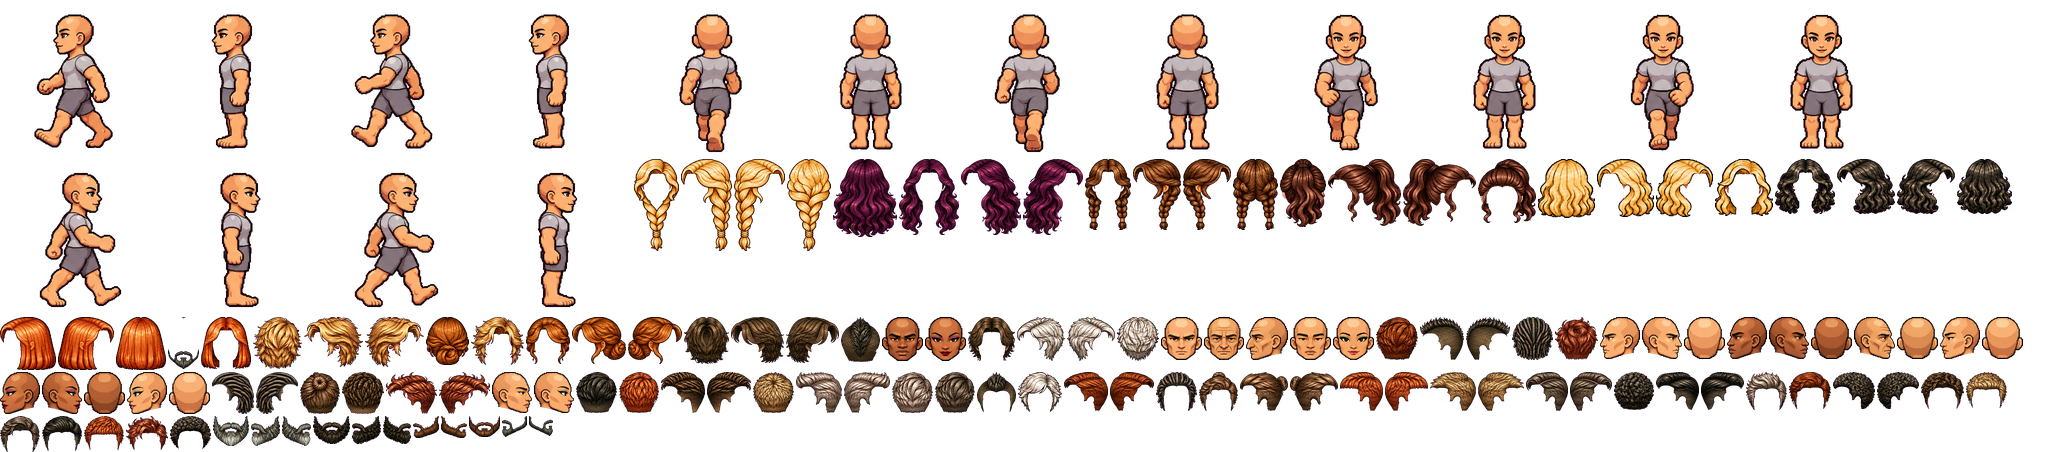
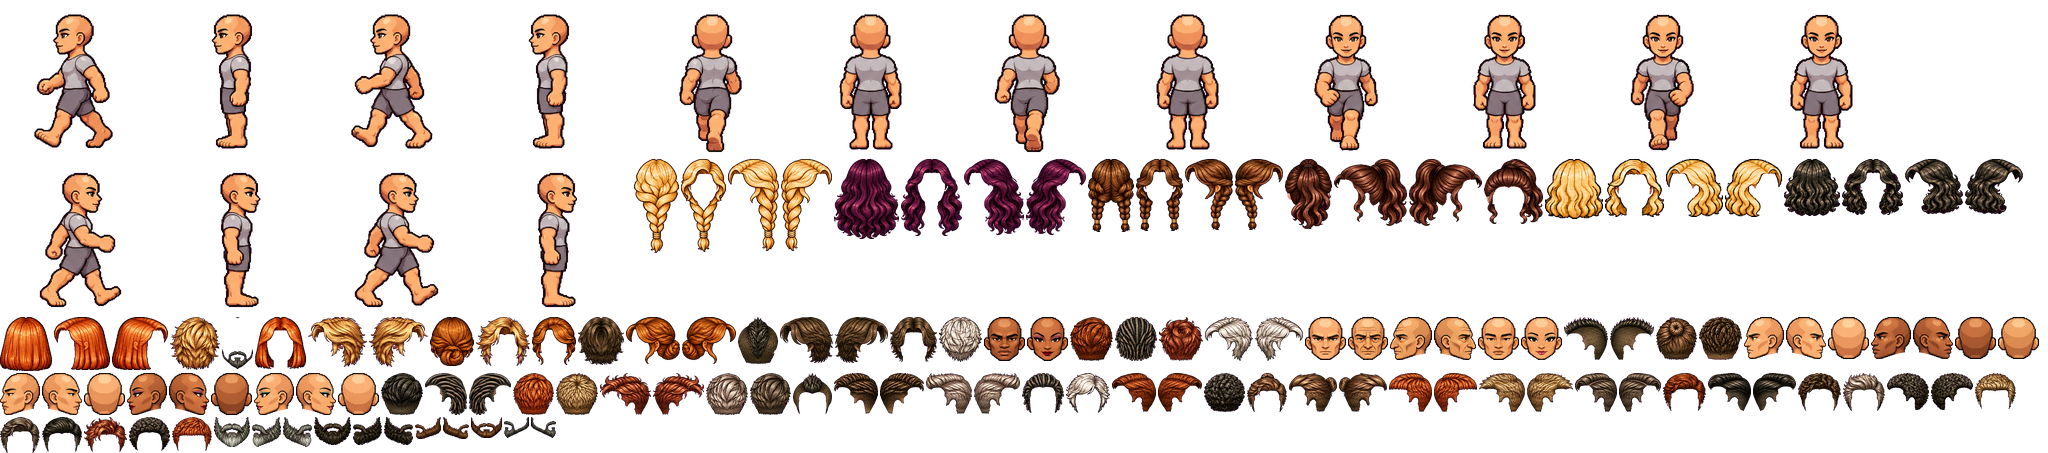
Creator: hair and beards fixed to the face pieces in all 4 directions, right view mirrored, walking head bob
Claude-Session: https://claude.ai/code/session_01M13Pm6b1zhezL4eS9qWP4U

diff --git a/tools/art/creator_preview.html b/tools/art/creator_preview.html
@@ -95,10 +95,10 @@ function bounds() {   // crop the canvas to the figure (with room for big hair),
 }
 function draw() {
   box = box || bounds(); const [bx, by, bw, bh] = box; cv.width = bw; cv.height = bh;
-  const g = cv.getContext('2d'), d = S.dir, f = d * 4 + (step % 4), [ax, ay] = CC.anchors[f];
+  const g = cv.getContext('2d'), d = S.dir, f = d * 4 + (step % 4), [ax, ay0] = CC.anchors[f], ay = ay0 + (CC.bob || [0, 0, 0, 0])[step % 4];   // the whole figure dips on the stride frames, so the face pieces move with the head
   const skin = SKIN[S.skin][1], hc = HAIRC[S.hcol][1], bc = S.bcol < 0 ? hc : HAIRC[S.bcol][1];
   const put = (key, cols, follow = true) => { const P = CC.pieces[key], im = piece(key, cols); if (im) g.drawImage(im, Math.round(P.at[0] + (follow ? ax : 0) - bx), Math.round(P.at[1] + (follow ? ay : 0) - by)); };
-  put('body_' + f, [skin, null, null], false);
+  put('body_' + f, [skin, null, null]);
   put(`head${S.face}_${d}`, [skin, null, null]);
   if (S.beard >= 0 && d !== 3) put(`beard${S.beard}_${d}`, [null, null, bc]);
   if (S.hair >= 0) put(`hair_${CC.hair[S.hair]}_${d}`, [null, hc, null]);

diff --git a/tools/art/build_creator.py b/tools/art/build_creator.py
@@ -72,12 +72,12 @@ def head_sil(v):
 Hs = cells(fh.rgba(D + 'heads_6.png'), 6, 3)          # columns: front, side (left), back
 Bs = cells(fh.rgba(D + 'beards_4.png'), 6, 3)
 VIEW_OF_COL = {0: 0, 1: 1, 2: 3}
-def fit_head(piece, v):
+def fit_head(piece, v, fixed=None):
     head, top = head_sil(v); hm = piece[..., 3] > 127
     rows = np.nonzero(head.any(1))[0]; cols = np.nonzero(head.any(0))[0]
-    s = (cols[-1] - cols[0] + 1) / hm.shape[1]
+    s = fixed or (cols[-1] - cols[0] + 1) / hm.shape[1]
     best = None
-    for k in np.arange(.96, 1.045, .01):
+    for k in ([1.0] if fixed else np.arange(.96, 1.045, .01)):
         im = resize(piece, s * k); m = im[..., 3] > 127
         from scipy.signal import fftconvolve
         P = 40; H2 = np.pad(head.astype(float), P)
@@ -92,7 +92,7 @@ for i in range(6):
         piece, (px, py) = biggest(Hs[i][col], fill_holes=4000)
         iou, s, x, y = fit_head(piece, VIEW_OF_COL[col])
         hv[col] = dict(piece=piece, s=s, x=x, y=y, iou=iou, src=(px, py))
-    mp = hv[1]['piece'][:, ::-1].copy(); iou, s, x, y = fit_head(mp, 2)   # facing right: the side view mirrored
+    mp = hv[1]['piece'][:, ::-1].copy(); iou, s, x, y = fit_head(mp, 2, fixed=hv[1]['s'])   # facing right: the side view mirrored, same size
     hv['r'] = dict(piece=mp, s=s, x=x, y=y, iou=iou, src=(px, py))
     heads.append(hv); print('head', i + 1, ' '.join(f"{c}:{hv[c]['iou']:.2f}" for c in range(3)), flush=True)
 # beards: same cell coordinates as the heads, so they ride on head 1's transform for that view (all heads share a skull)
@@ -105,10 +105,9 @@ for i in range(4):
         piece, (px, py) = biggest(raw, min_px=20, fill_holes=0)
         h = heads[0][col]; s = h['s']
         bv[col] = dict(piece=piece, s=s, x=round(h['x'] + (px - h['src'][0]) * s), y=round(h['y'] + (py - h['src'][1]) * s))
-        if col == 1:   # facing right: mirror within the side head's box
-            hp = Hs[0][1]; _, (hx, hy) = biggest(hp, fill_holes=4000); hw = biggest(hp, fill_holes=4000)[0].shape[1]
-            hr = heads[0]['r']; rel = (px - hx); mx = hw - rel - piece.shape[1]
-            bv['r'] = dict(piece=piece[:, ::-1].copy(), s=hr['s'], x=round(hr['x'] + mx * hr['s']), y=round(hr['y'] + (py - hy) * hr['s']))
+        if col == 1:   # facing right: the left placement mirrored about the head
+            hl, hr = heads[0][1], heads[0]['r']; wl = hl['piece'].shape[1] * hl['s']; bw = piece.shape[1] * s
+            bv['r'] = dict(piece=piece[:, ::-1].copy(), s=s, x=round(hr['x'] + wl - (bv[1]['x'] - hl['x']) - bw), y=round(hr['y'] + (bv[1]['y'] - hl['y'])))
     beards.append(bv)
 fits = json.load(open(D + 'fits3.json'))
 
@@ -126,10 +125,29 @@ for i, bv in enumerate(beards):
     for d, col in ((0, 0), (1, 1), (2, 'r')):
         b = bv[col]; add(f'beard{i}_{d}', b['piece'], 'beard', b['x'], b['y'], b['s'])
 HAIR_NAMES = sorted(fits)
+# the head the player sees is the face piece, not the body's own head. The approved fits (fits3) sit on the body's head,
+# so carry each one across onto the face piece: same spot relative to the head's top centre, scaled with the head.
+def bbox(m):
+    ys, xs = np.nonzero(m); return xs.min(), ys.min(), xs.max() + 1, ys.max() + 1
+HF = {}
+MAP = {}
+for d, col in ((0, 0), (1, 1), (3, 2)):
+    bx0, by0, bx1, by1 = bbox(fh.REG[d][1])
+    h = heads[0][col]; m = resize(h['piece'], h['s'])[..., 3] > 127; fx0, fy0, fx1, fy1 = bbox(m)
+    fx0 += h['x']; fx1 += h['x']; fy0 += h['y']
+    MAP[d] = ((bx0 + bx1) / 2, by0, (fx0 + fx1) / 2, fy0, (fx1 - fx0) / (bx1 - bx0))
+    print('map', d, [round(float(v), 2) for v in MAP[d]])
 for n in HAIR_NAMES:
-    V = fh.views(D + f'hair_{n}.png')
+    V = fh.views(D + f'hair_{n}.png'); out = {}
+    for d in (0, 1, 3):
+        bcx, btop, fcx, ftop, k = MAP[d]; r = fits[n][d]
+        out[d] = dict(s=r['s'] * k, x=round(fcx + (r['x'] - bcx) * k), y=round(ftop + (r['y'] - btop) * k))
+        out[d]['w'] = round(V[d].shape[1] * out[d]['s'])
+    hl, hr = heads[0][1], heads[0]['r']; wl = hl['piece'].shape[1] * hl['s']; l = out[1]
+    out[2] = dict(s=l['s'], x=round(hr['x'] + wl - (l['x'] - hl['x']) - l['w']), y=round(hr['y'] + (l['y'] - hl['y'])))
+    HF[n] = out
     for d in (0, 1, 2, 3):
-        r = fits[n][d]; add(f'hair_{n}_{d}', V[d], 'hair', r['x'], r['y'], r['s'])
+        r = out[d]; add(f'hair_{n}_{d}', V[d], 'hair', r['x'], r['y'], r['s'])
 # shelf packing
 items.sort(key=lambda t: -t[1].shape[0]); W = 2048; x = y = rowh = 0; place = {}
 for key, im, mt, px, py in items:
@@ -145,5 +163,7 @@ for key, im, mt, px, py in items:
 Image.fromarray(atlas).save(OUT + 'cc_atlas.webp', 'WEBP', lossless=True, quality=100, method=6)
 Image.fromarray(mat).save(OUT + 'cc_mat.png', optimize=True)
 json.dump(dict(cell=round(CELL * OUT_SCALE), anchors=[[a[0] * OUT_SCALE, a[1] * OUT_SCALE] for a in anchors], pieces=meta,
-               hair=HAIR_NAMES, heads=6, beards=4), open(OUT + 'cc.json', 'w'), separators=(',', ':'))
+               hair=HAIR_NAMES, heads=6, beards=4, bob=[2, 0, 2, 0]), open(OUT + 'cc.json', 'w'), separators=(',', ':'))
 print('atlas', atlas.shape, os.path.getsize(OUT + 'cc_atlas.webp') // 1024, 'KB')
+import subprocess, sys
+subprocess.run([sys.executable, 'tools/art/nudge_beards.py'], check=True)   # settle the beards onto the jaws

diff --git a/tools/art/nudge_beards.py b/tools/art/nudge_beards.py
@@ -1,0 +1,28 @@
+"""Settle each beard onto the jaw of the face pieces. The beard sheet wasn't drawn on exactly the same spot as the heads,
+so each beard is slid (a few px at most) to where it sits most on the face and least off it, judged over all six faces.
+Facing right is the left placement mirrored about the head. Run after build_creator.py (it calls this itself)."""
+import json, numpy as np
+from PIL import Image
+J = 'src/creator/cc.json'
+c = json.load(open(J)); A = np.asarray(Image.open('src/creator/cc_atlas.webp').convert('RGBA'))[..., 3] > 127
+N = 220
+def mask(k):
+    P = c['pieces'][k]; x, y, w, h = P['f']; m = np.zeros((N, N), bool); ax, ay = round(P['at'][0]), round(P['at'][1])
+    m[ay + 30:ay + 30 + h, ax + 30:ax + 30 + w] = A[y:y + h, x:x + w]; return m
+for b in range(c['beards']):
+    for d in (0, 1):
+        k = f'beard{b}_{d}'; bm = mask(k); best = None
+        heads = [mask(f'head{f}_{d}') for f in range(c['heads'])]
+        for dy in range(-4, 5):
+            for dx in range(-4, 5):
+                s = np.roll(np.roll(bm, dy, 0), dx, 1); sc = 0
+                for hm in heads:
+                    ys = np.nonzero(hm.any(1))[0]; eyes = np.zeros_like(hm); eyes[:ys[0] + int((ys[-1] - ys[0]) * .45)] = True
+                    sc += (s & hm).sum() - 1.5 * (s & ~hm).sum() - 6 * (s & eyes).sum()
+                sc -= 3 * (abs(dx) + abs(dy))
+                if best is None or sc > best[0]: best = (sc, dx, dy)
+        _, dx, dy = best; P = c['pieces'][k]; P['at'] = [P['at'][0] + dx, P['at'][1] + dy]; print(k, 'moved', dx, dy)
+    # facing right: mirror the left placement about the head
+    hl, hr = c['pieces']['head0_1'], c['pieces']['head0_2']; L = c['pieces'][f'beard{b}_1']; R = c['pieces'][f'beard{b}_2']
+    R['at'] = [hr['at'][0] + hl['f'][2] - (L['at'][0] - hl['at'][0]) - L['f'][2], hr['at'][1] + (L['at'][1] - hl['at'][1])]
+json.dump(c, open(J, 'w'), separators=(',', ':'))
